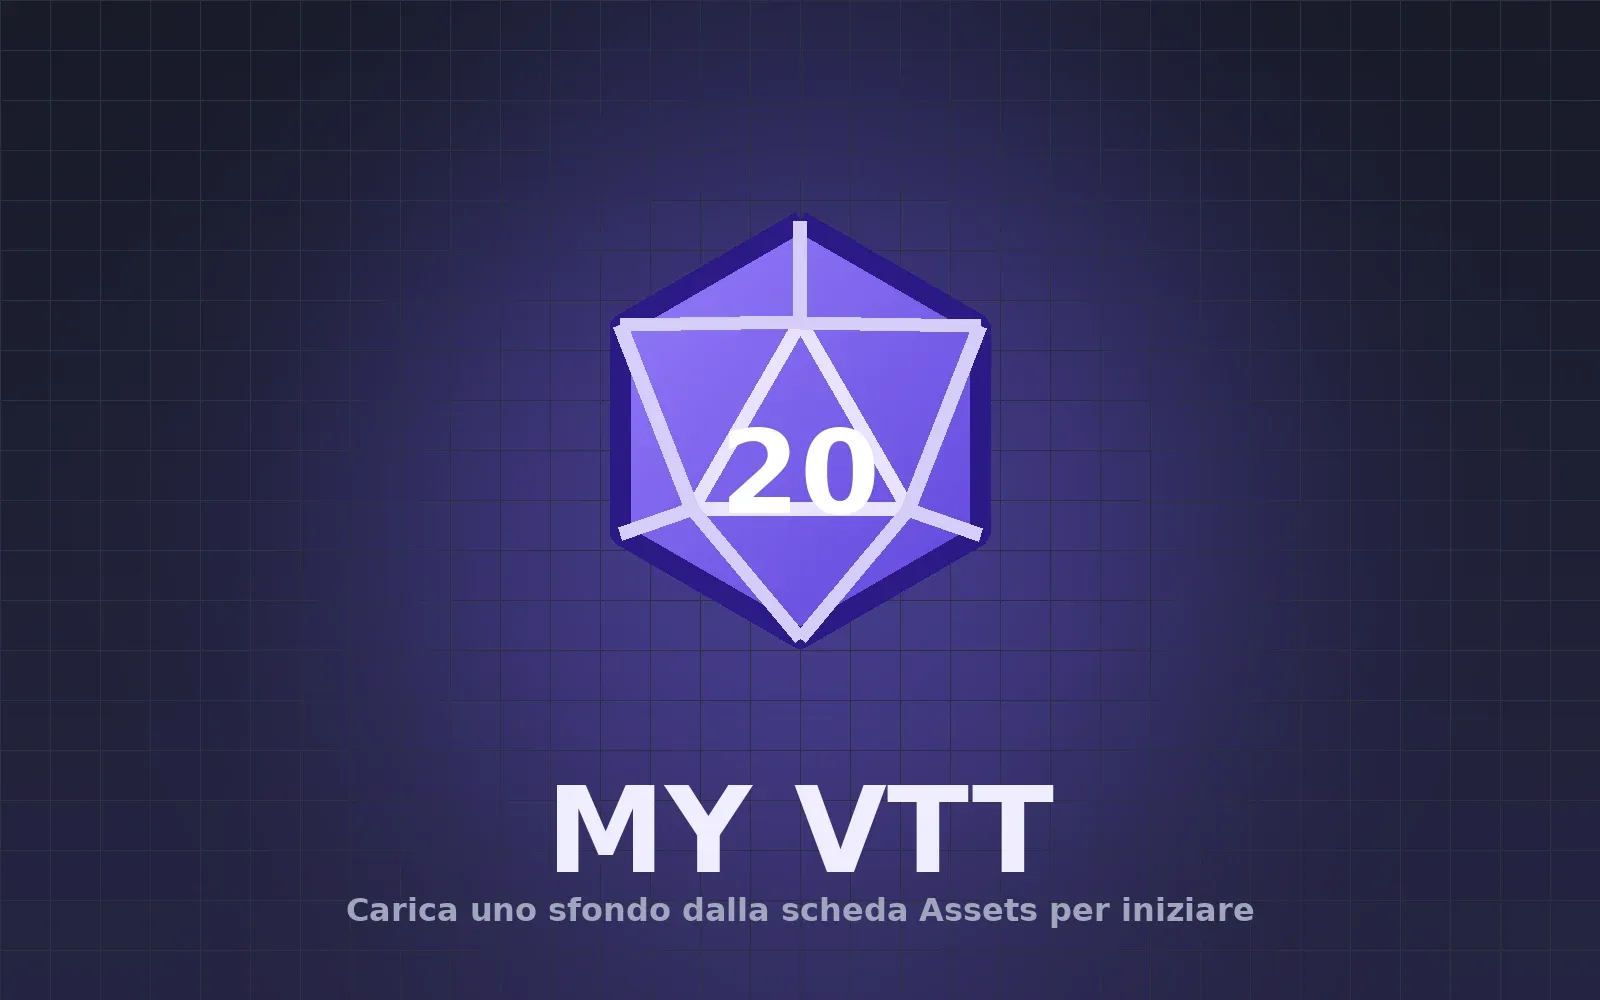
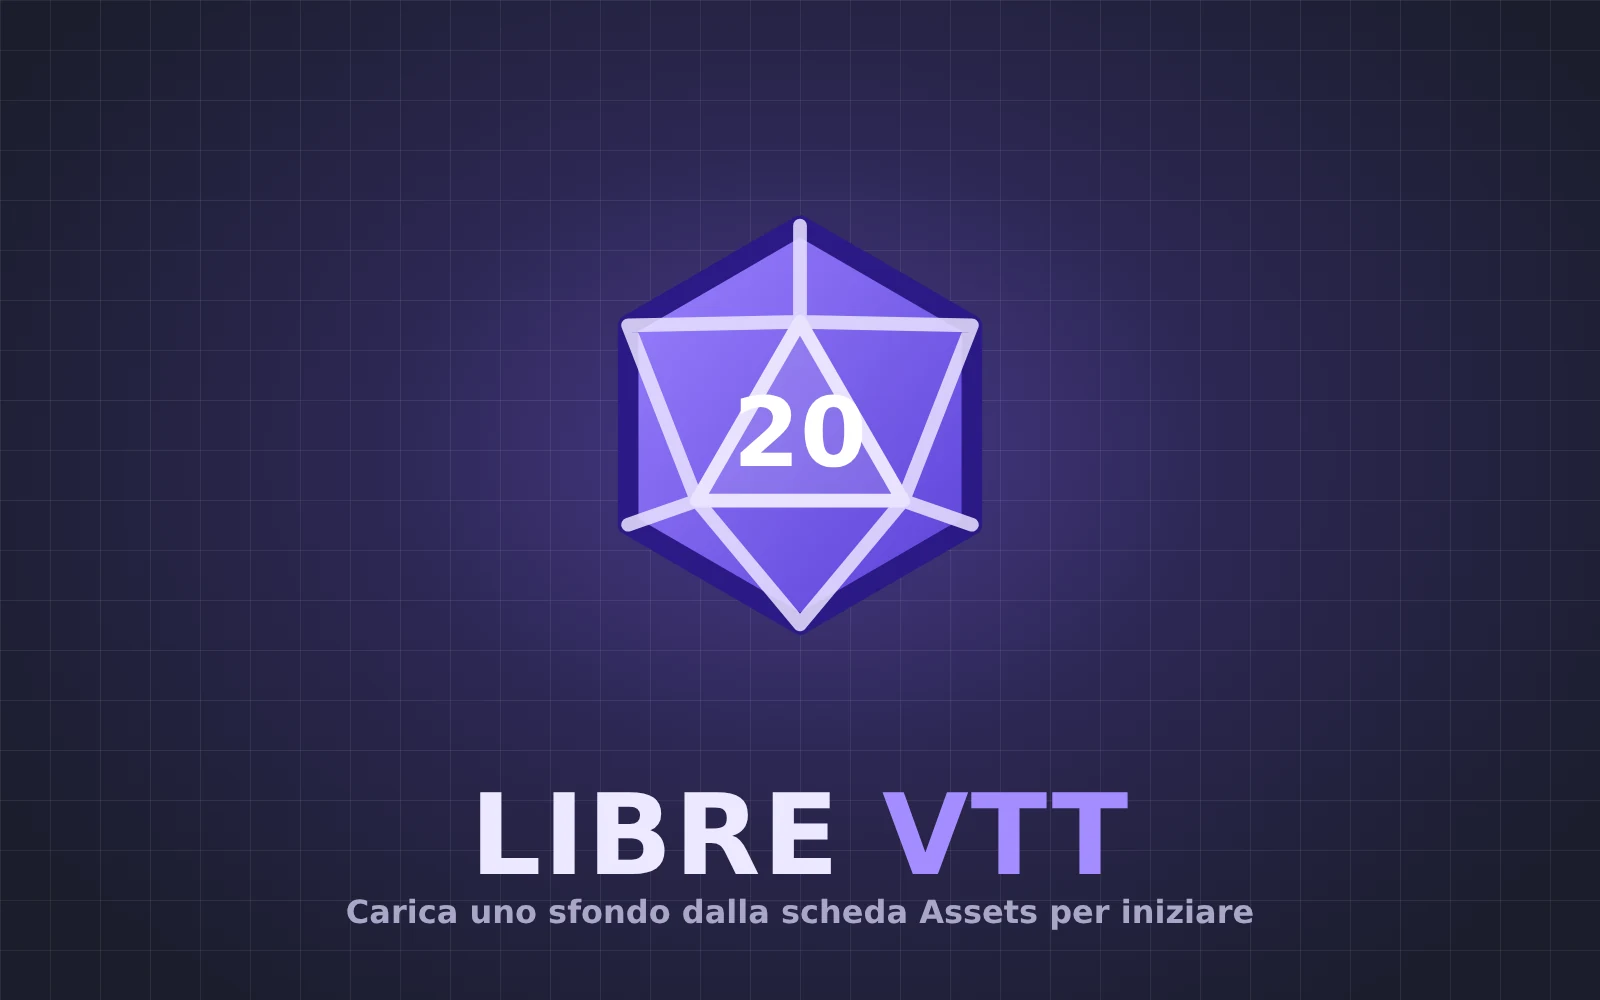
Sfondo di benvenuto con il nome LIBRE VTT (e aggiornato nelle campagne che avevano quello vecchio)
Claude-Session: https://claude.ai/code/session_01E8zADgD2SKsQNeRCTS5mhQ

diff --git a/launcher.js b/launcher.js
@@ -373,6 +373,11 @@ function preparaCartella(dir, nome) {
   const base = path.join(ROOT, 'assets', 'Sfondi', 'main.webp'), dest = path.join(dir, 'assets', 'Sfondi', 'main.webp');
   const nuova = !fs.existsSync(path.join(dir, 'data', 'board.json')) && !fs.existsSync(path.join(dir, 'data', 'world.json'));
   if (nuova && fs.existsSync(base) && !fs.existsSync(dest)) { fs.mkdirSync(path.dirname(dest), { recursive: true }); fs.copyFileSync(base, dest); }
+  // lo sfondo vecchio con scritto «MY VTT», mai cambiato: si sostituisce con quello nuovo
+  try {
+    if (fs.existsSync(base) && fs.statSync(dest).size === 32796 &&
+        require('crypto').createHash('sha1').update(fs.readFileSync(dest)).digest('hex') === 'd5bd0bd05d23ec5f31ed4976d9df10c24e29f6b4') fs.copyFileSync(base, dest);
+  } catch {}
   const meta = path.join(dir, 'campagna.json');
   if (!fs.existsSync(meta) && path.resolve(dir) !== path.resolve(ROOT)) {
     fs.writeFileSync(meta, JSON.stringify({ nome: nome || path.basename(dir), creata: new Date().toISOString(), programma: 'LIBRE VTT' }, null, 2));
